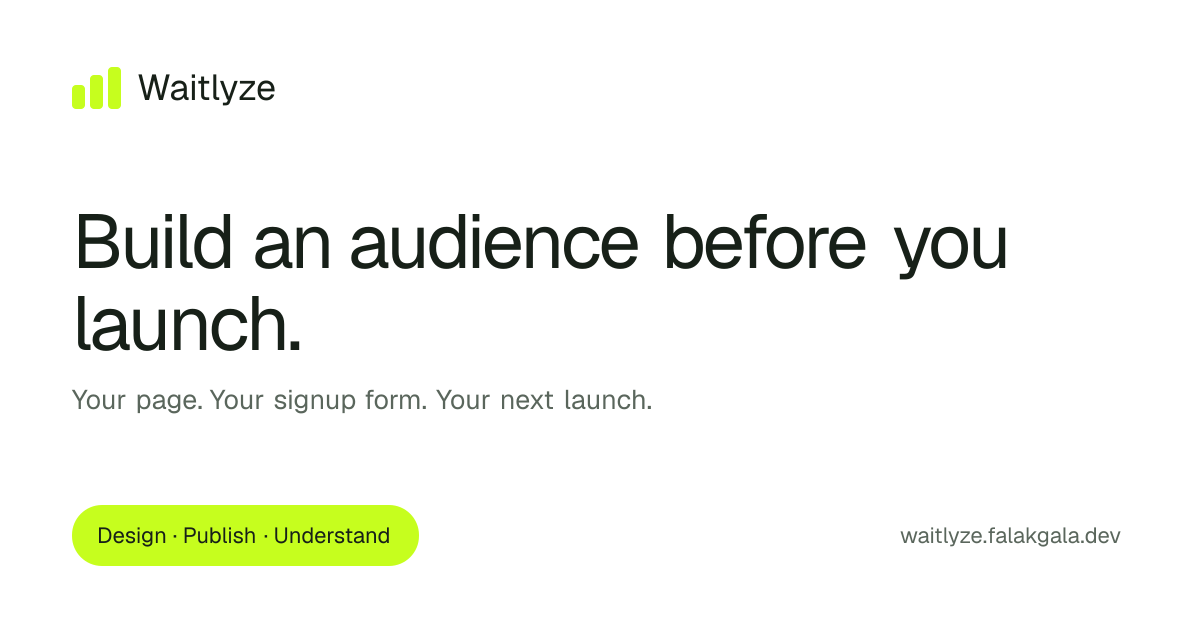
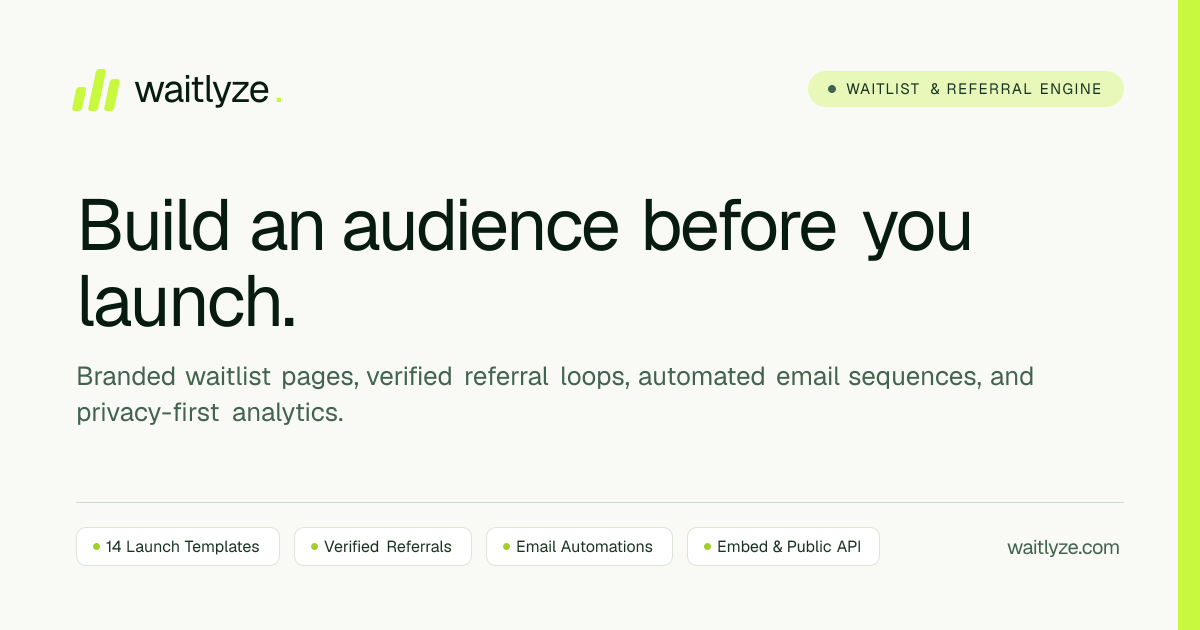
feat(projects): update Waitlyze URL, OG image, stack, and move above Glyph

diff --git a/src/lib/project-data.js b/src/lib/project-data.js
@@ -26,6 +26,27 @@ export const projects = [
     imageUrl: "/projects/outcallerai.png",
   },
   {
+    id: "waitlyze",
+    title: "Waitlyze",
+    description:
+      "Launch branded waitlist pages or embeds, grow signups with verified referral loops and rewards, automate emails, and track real-time analytics.",
+    tags: [
+      "JavaScript",
+      "React.js",
+      "Next.js",
+      "Tailwind",
+      "BetterAuth",
+      "Prisma",
+      "PostgreSQL",
+      "Neon",
+      "Resend",
+      "Cloudflare",
+    ],
+    deployedUrl: "https://waitlyze.com",
+    githubUrl: "https://github.com/FALAK097/waitlyze",
+    imageUrl: "/projects/waitlyze.png",
+  },
+  {
     id: "glyph",
     title: "Glyph",
     description:
@@ -39,26 +60,6 @@ export const projects = [
     deployedUrl: "https://glyph.falakgala.dev",
     githubUrl: "https://github.com/FALAK097/glyph",
     imageUrl: "/projects/glyph.png",
-  },
-  {
-    id: "waitlyze",
-    title: "Waitlyze",
-    description:
-      "Create a branded waitlist in minutes — collect signups, grow with referrals, and know who's ready for launch day.",
-    tags: [
-      "JavaScript",
-      "React.js",
-      "Next.js",
-      "Tailwind",
-      "BetterAuth",
-      "Prisma",
-      "PostgreSQL",
-      "Neon",
-      "Resend",
-      "Vercel",
-    ],
-    deployedUrl: "https://waitlyze.falakgala.dev",
-    imageUrl: "/projects/waitlyze.png",
   },
   {
     id: "dms",

diff --git a/public/data/falak-gala.vercel.app_projects.md b/public/data/falak-gala.vercel.app_projects.md
@@ -45,6 +45,38 @@ AI-powered outbound caller that pre-qualifies leads with life-like conversations
 
 ![OutCallerAI](https://falakgala.dev/_next/image?url=%2Fprojects%2Foutcallerai.png&w=3840&q=75)
 
+## Waitlyze
+
+Launch branded waitlist pages or embeds, grow signups with verified referral loops and rewards, automate emails, and track real-time analytics.
+
+### Tech Stack
+
+![JavaScript](https://falakgala.dev/skills/javascript.svg)
+
+![React.js](https://falakgala.dev/skills/react.svg)
+
+![Next.js](https://falakgala.dev/skills/nextjs.svg)
+
+![Tailwind](https://falakgala.dev/skills/tailwindcss.svg)
+
+![BetterAuth](https://falakgala.dev/skills/better-auth.svg)
+
+![Prisma](https://falakgala.dev/skills/prisma.svg)
+
+![PostgreSQL](https://falakgala.dev/skills/postgresql.svg)
+
+![Neon](https://falakgala.dev/skills/neon.svg)
+
+![Resend](https://falakgala.dev/skills/resend.svg)
+
+![Cloudflare](https://falakgala.dev/skills/cloudflare.svg)
+
+[GitHub](https://github.com/FALAK097/waitlyze)
+
+[Live Demo](https://waitlyze.com)
+
+![Waitlyze](https://falakgala.dev/_next/image?url=%2Fprojects%2Fwaitlyze.png&w=3840&q=75)
+
 ## Glyph
 
 Local-first markdown editor and reader for macOS and Windows. Read local notes, edit markdown quickly, and keep everything on disk.
@@ -64,36 +96,6 @@ Local-first markdown editor and reader for macOS and Windows. Read local notes, 
 [GitHub](https://github.com/FALAK097/glyph)
 
 [Live Demo](https://glyph.falakgala.dev/)
-
-## Waitlyze
-
-No-code platform to build waitlists, collect signups, and track analytics in real-time.
-
-### Tech Stack
-
-![JavaScript](https://falakgala.dev/skills/javascript.svg)
-
-![React.js](https://falakgala.dev/skills/react.svg)
-
-![Next.js](https://falakgala.dev/skills/nextjs.svg)
-
-![Tailwind](https://falakgala.dev/skills/tailwindcss.svg)
-
-![Prisma](https://falakgala.dev/skills/prisma.svg)
-
-![PostgreSQL](https://falakgala.dev/skills/postgresql.svg)
-
-![Neon](https://falakgala.dev/skills/neon.svg)
-
-![Docker](https://falakgala.dev/skills/docker.svg)
-
-![Vercel](https://falakgala.dev/skills/vercel-light.svg)
-
-![BetterAuth](https://falakgala.dev/skills/betterauth-light.svg)
-
-[Live Demo](https://waitlyze.falakgala.dev)
-
-![Waitlyze](https://falakgala.dev/_next/image?url=%2Fprojects%2Fwaitlyze.png&w=3840&q=75)
 
 ## DMS
 
